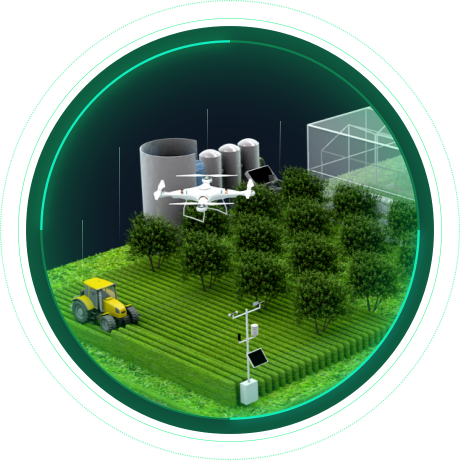
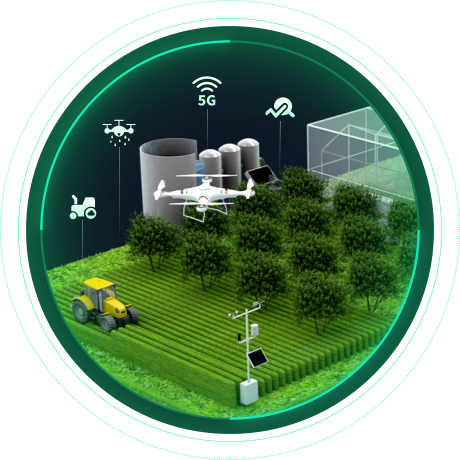
fix: /homeIndex 中间图片

diff --git a/prettier.config.js b/prettier.config.js
@@ -1,5 +1,5 @@
 module.exports = {
-  printWidth: 130, // 每行代码长度（默认80）
+  printWidth: 100, // 每行代码长度（默认80）
   tabWidth: 2, // 每个tab相当于多少个空格（默认2）ab进行缩进（默认false）
   useTabs: false, // 是否使用tab
   semi: true, // 声明结尾使用分号(默认true)
